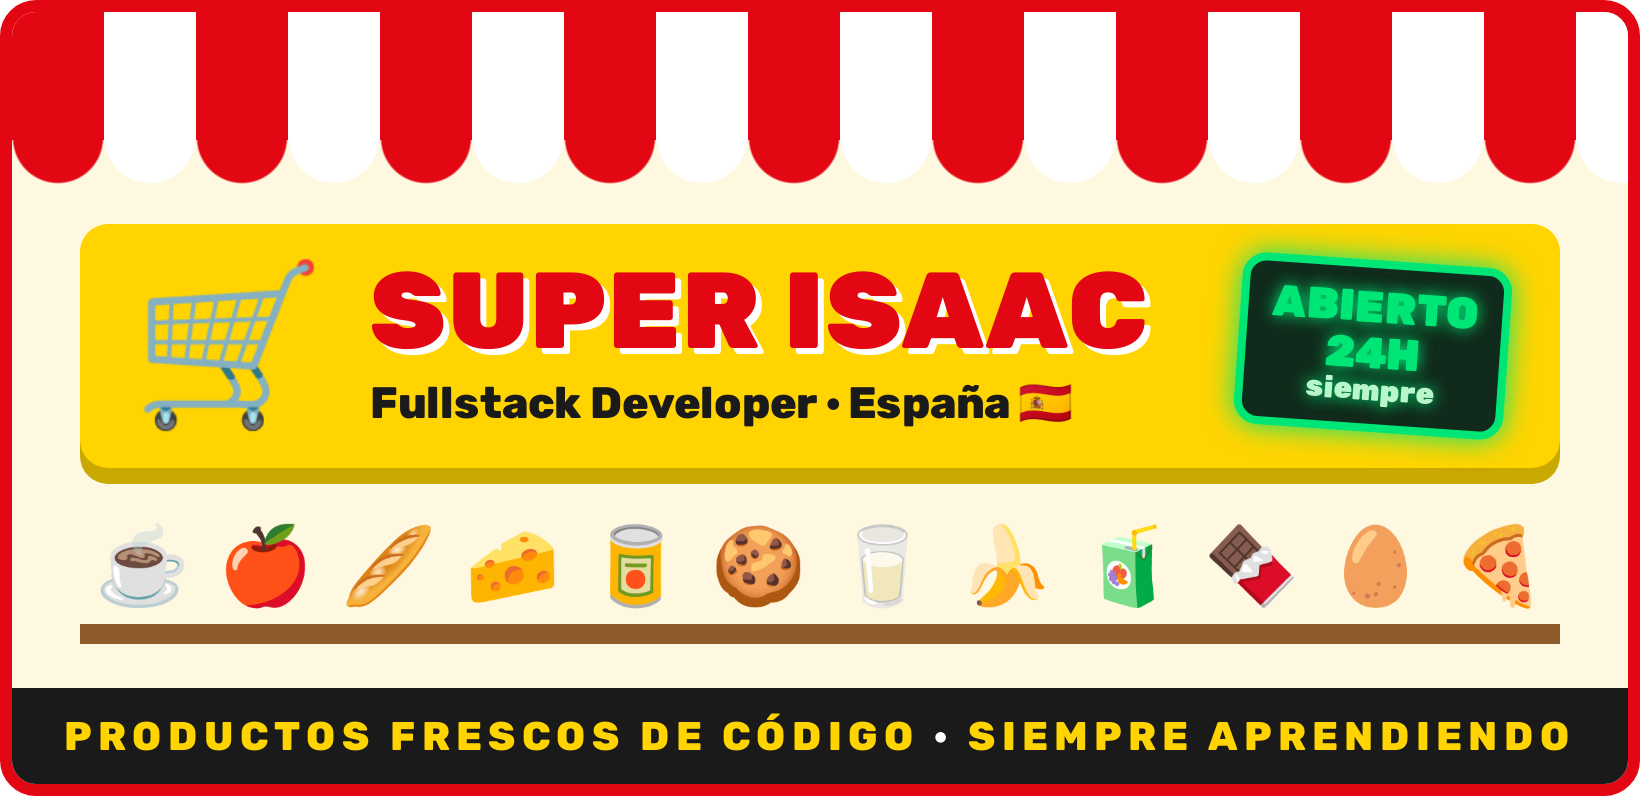
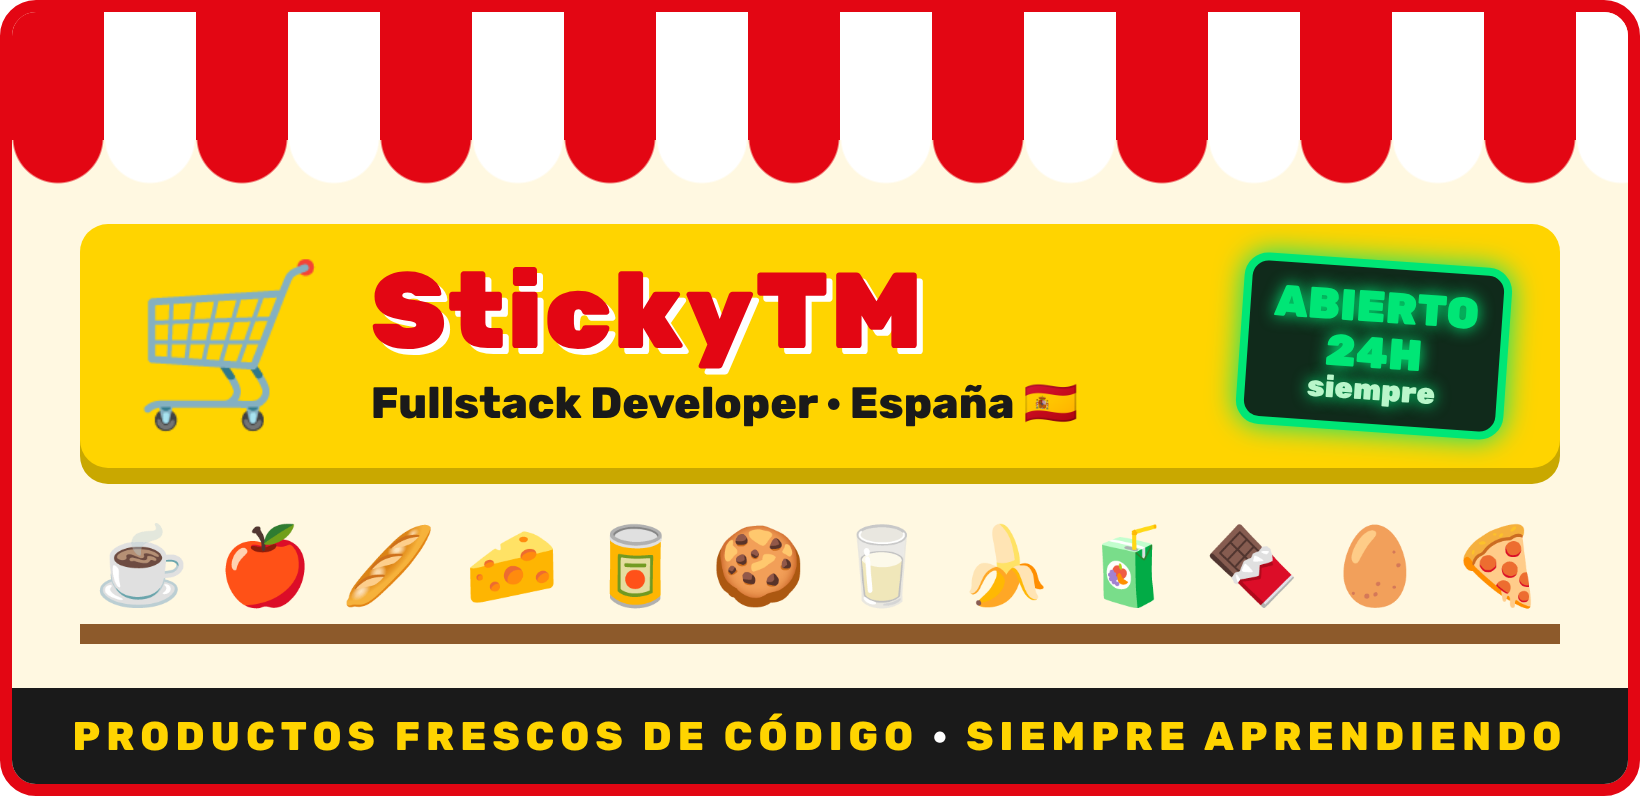
Rename the supermarket to StickyTM

diff --git a/scripts/generate-ticket.js b/scripts/generate-ticket.js
@@ -121,7 +121,7 @@ hr{border:0;border-top:2px dashed #555;margin:12px 0}
 .h{font-weight:bold}.tot{font-size:20px;font-weight:bold}.s{font-size:12px;color:#444}
 .bar{height:56px;margin:14px auto 4px;width:300px;background:repeating-linear-gradient(90deg,#000 0 2px,#fffef9 2px 4px,#000 4px 5px,#fffef9 5px 8px,#000 8px 11px,#fffef9 11px 12px,#000 12px 13px,#fffef9 13px 16px)}
 </style></head><body><div class="t">
-<div class="c big">🛒 SUPER ISAAC</div>
+<div class="c big">🛒 StickyTM</div>
 <div class="c">Productos frescos de código</div>
 <div class="c s">C/ Fullstack, 1 · España<br>Contacto: isaacsanz@proton.me</div>
 <hr>
@@ -172,7 +172,7 @@ body{margin:0;background:transparent;font-family:Rubik,Arial,sans-serif}
 </style></head><body><div class="b">
 <div class="awning"></div>
 <div class="sign"><div class="cart">🛒</div>
-<div><div class="name">SUPER ISAAC</div><div class="tag">Fullstack Developer · España 🇪🇸</div></div>
+<div><div class="name">StickyTM</div><div class="tag">Fullstack Developer · España 🇪🇸</div></div>
 <div class="open">ABIERTO<br>24H<small>siempre</small></div></div>
 <div class="shelf">${shelf}</div>
 <div class="strip">PRODUCTOS FRESCOS DE CÓDIGO <b>·</b> SIEMPRE APRENDIENDO</div>

diff --git a/README.md b/README.md
@@ -1,6 +1,6 @@
 <div align="center">
 
-<img src="assets/cabecera.png" width="720" alt="Fachada del Super Isaac: Fullstack Developer, España. Abierto 24h"/>
+<img src="assets/cabecera.png" width="720" alt="Fachada del supermercado StickyTM: Fullstack Developer, España. Abierto 24h"/>
 
 <br/><br/>
 
